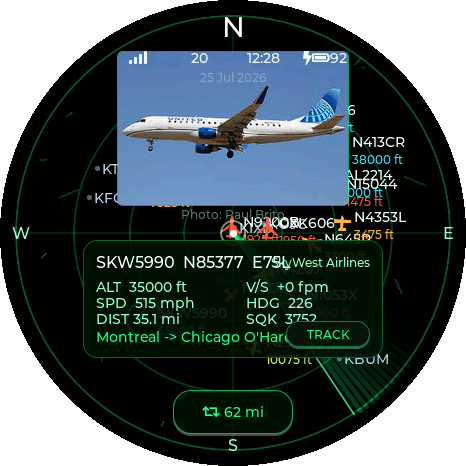
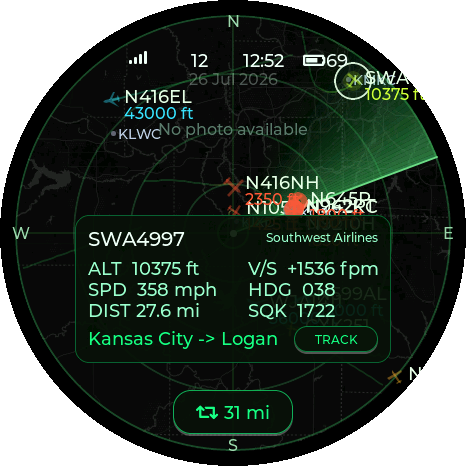
Refresh the radar, detail and list screenshots with real traffic
The previous set was captured at v1.8.0 and the scope shot predated the
sweep and splash rework. Recaptured with 11 aircraft in range: type-specific
silhouettes, altitude colouring, three labelled airports and the basemap.

The detail card now shows SWA4997 (Southwest, Kansas City -> Boston Logan)
rather than the nearest contact, which at this location is invariably a
parked GA single with no route to look up. grab_screens.py picks sel=0; this
one was captured with sel=10.

Drops 'and a photo' from the detail caption -- see below.

diff --git a/README.md b/README.md
@@ -24,7 +24,7 @@ Captured from the device itself — these are the real framebuffer, not photogra
 | Radar | Detail card | Contacts |
 |:---:|:---:|:---:|
 | <img src="docs/img/screens/radar.png" width="240"> | <img src="docs/img/screens/detail.png" width="240"> | <img src="docs/img/screens/list.png" width="240"> |
-| Aircraft drawn by type, altitude-coloured, with airports labelled by ICAO/IATA ident | Tap a contact: callsign, registration, type, route, airline and a photo | Nearest-first contact list |
+| Aircraft drawn by type, altitude-coloured, with airports labelled by ICAO/IATA ident | Tap a contact for callsign, type, altitude, speed, heading, squawk — plus the airline and route looked up automatically | Nearest-first contact list |
 
 | Stats | Precipitation | Satellite |
 |:---:|:---:|:---:|
